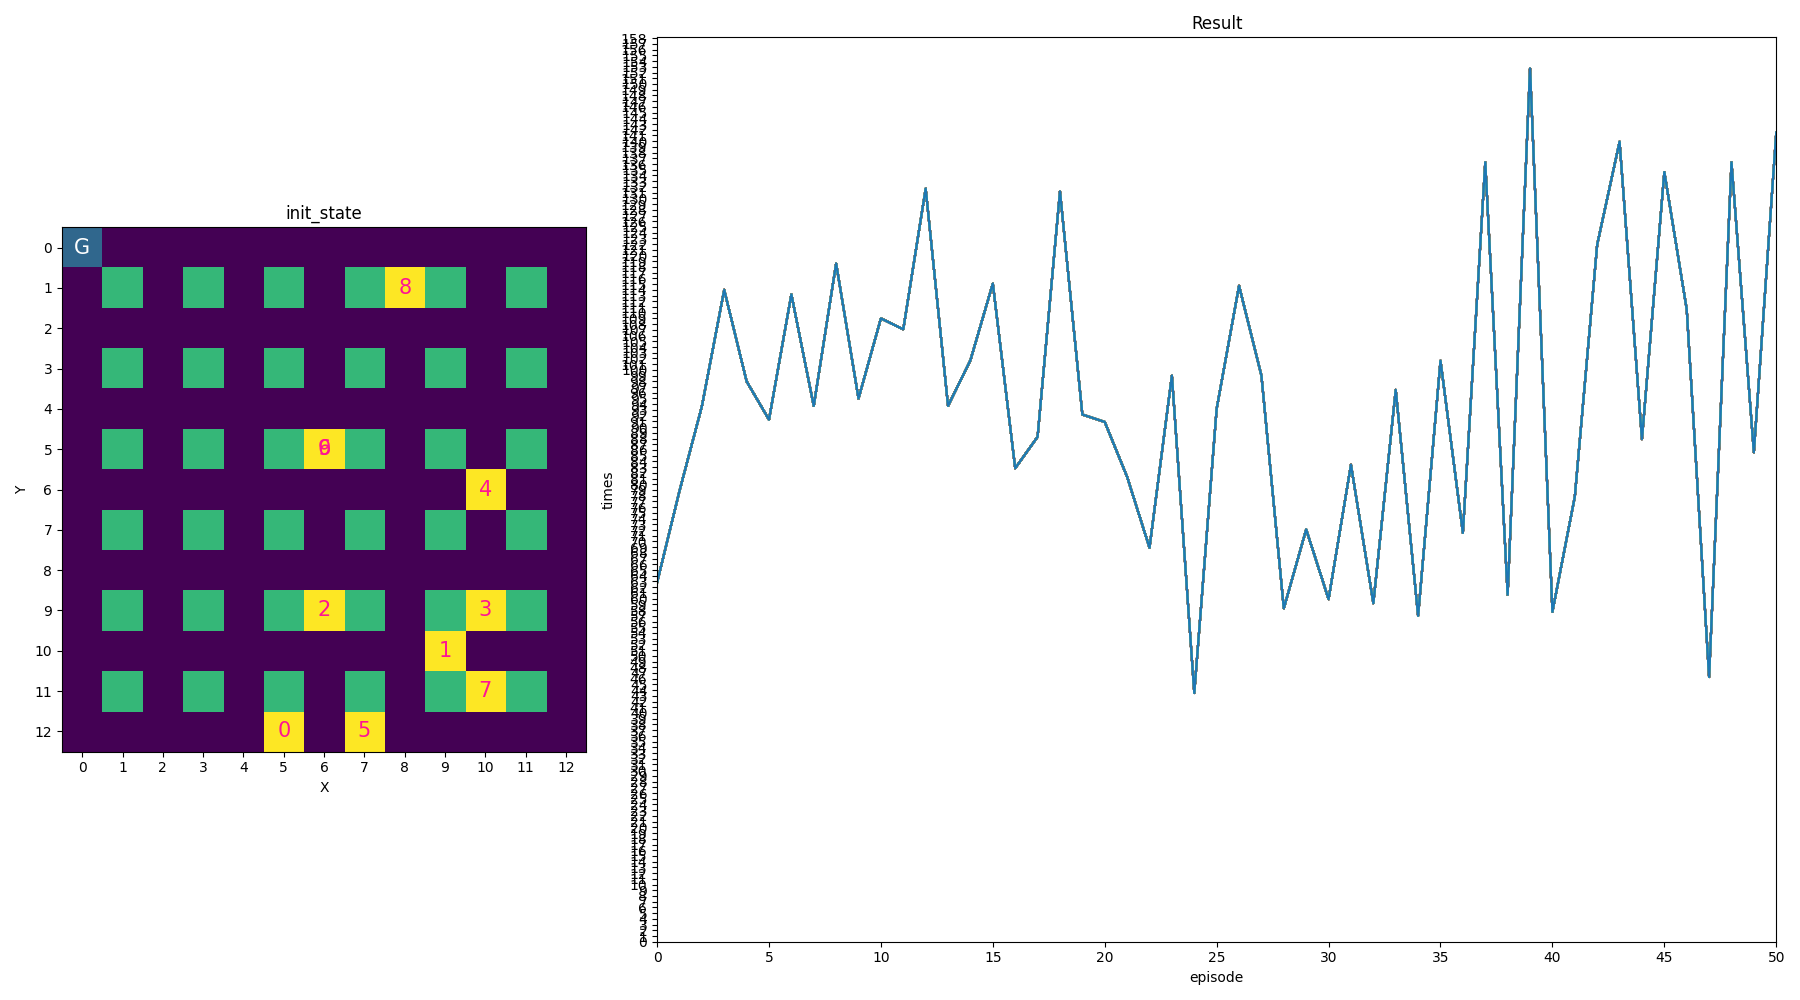
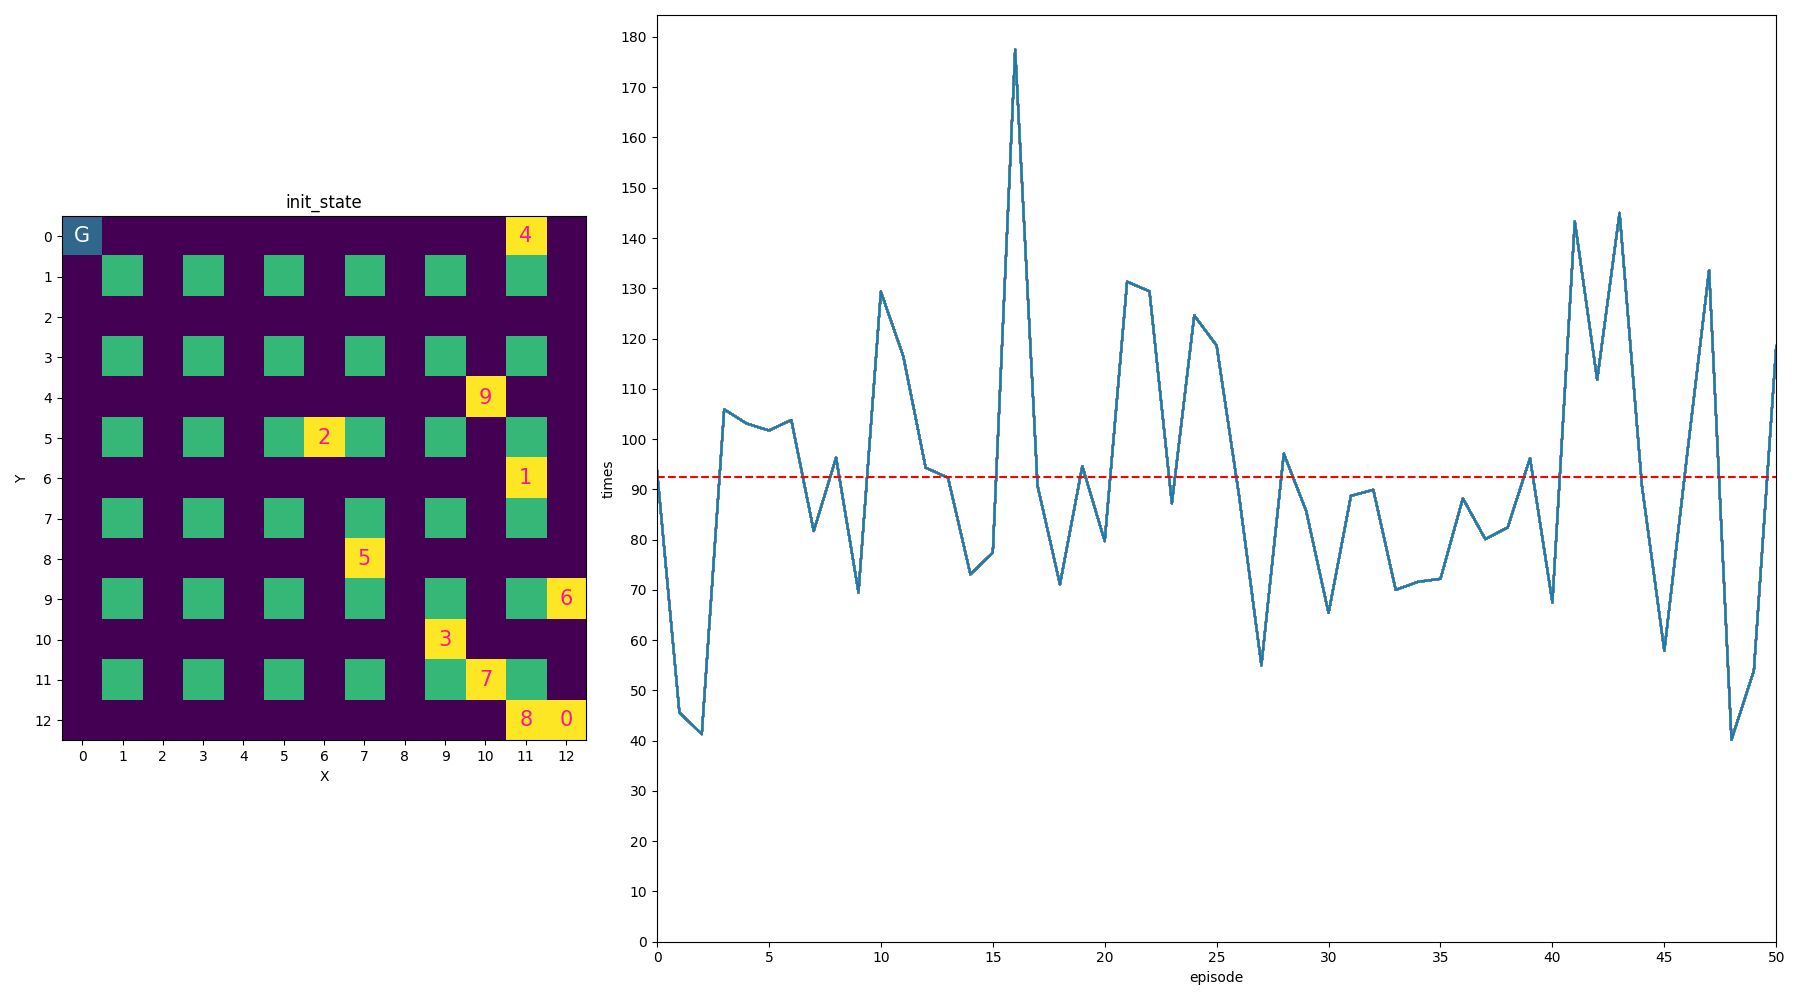
01/05 22:50

Changed region(s): [[0.0311, 0.031, 0.9956, 0.93], [0.6533, 0.0, 0.6844, 0.031]]

diff --git a/multi.py b/multi.py
@@ -52,8 +52,8 @@ if __name__ == '__main__':
         init_map = np.array(grid_env.map)
         while(np.all(is_end_episode) == False):    # 全員がゴールするまで続ける
             fig_made += 1
-            plt.imshow(grid_env.map)
-            plt.savefig(f"gif_exp2/fig_{fig_made}.png")
+            #plt.imshow(grid_env.map)
+            #plt.savefig(f"gif_exp2/fig_{fig_made}.png")
             for id,agent in enumerate(summon.agents):
                 if is_end_episode[id] == False:
                     start_x = agent.observation[0]
@@ -88,7 +88,6 @@ if __name__ == '__main__':
         gs[0, 1:],
         xlabel="episode",
         ylabel="times",
-        title="Result",
         xlim=(0,NB_EPISODE-1))
     avg = episode_reward.mean(axis=1)
     print(avg)
@@ -96,6 +95,7 @@ if __name__ == '__main__':
     lines = [ax2.plot(np.arange(NB_EPISODE),avg) for episode in range(NB_EPISODE)]
     y_min, max_y = ax2.get_ylim()
     ax2.set_ylim(0, max_y)
+    ax2.hlines(avg.mean(),0,NB_EPISODE,'red',linestyles='dashed')
     #ax2.legend(handles=lines[::-1], labels=[e for e in range(POPULATION)])
     #fig.legend()
     ax1.xaxis.set_major_locator(ticker.MultipleLocator())
